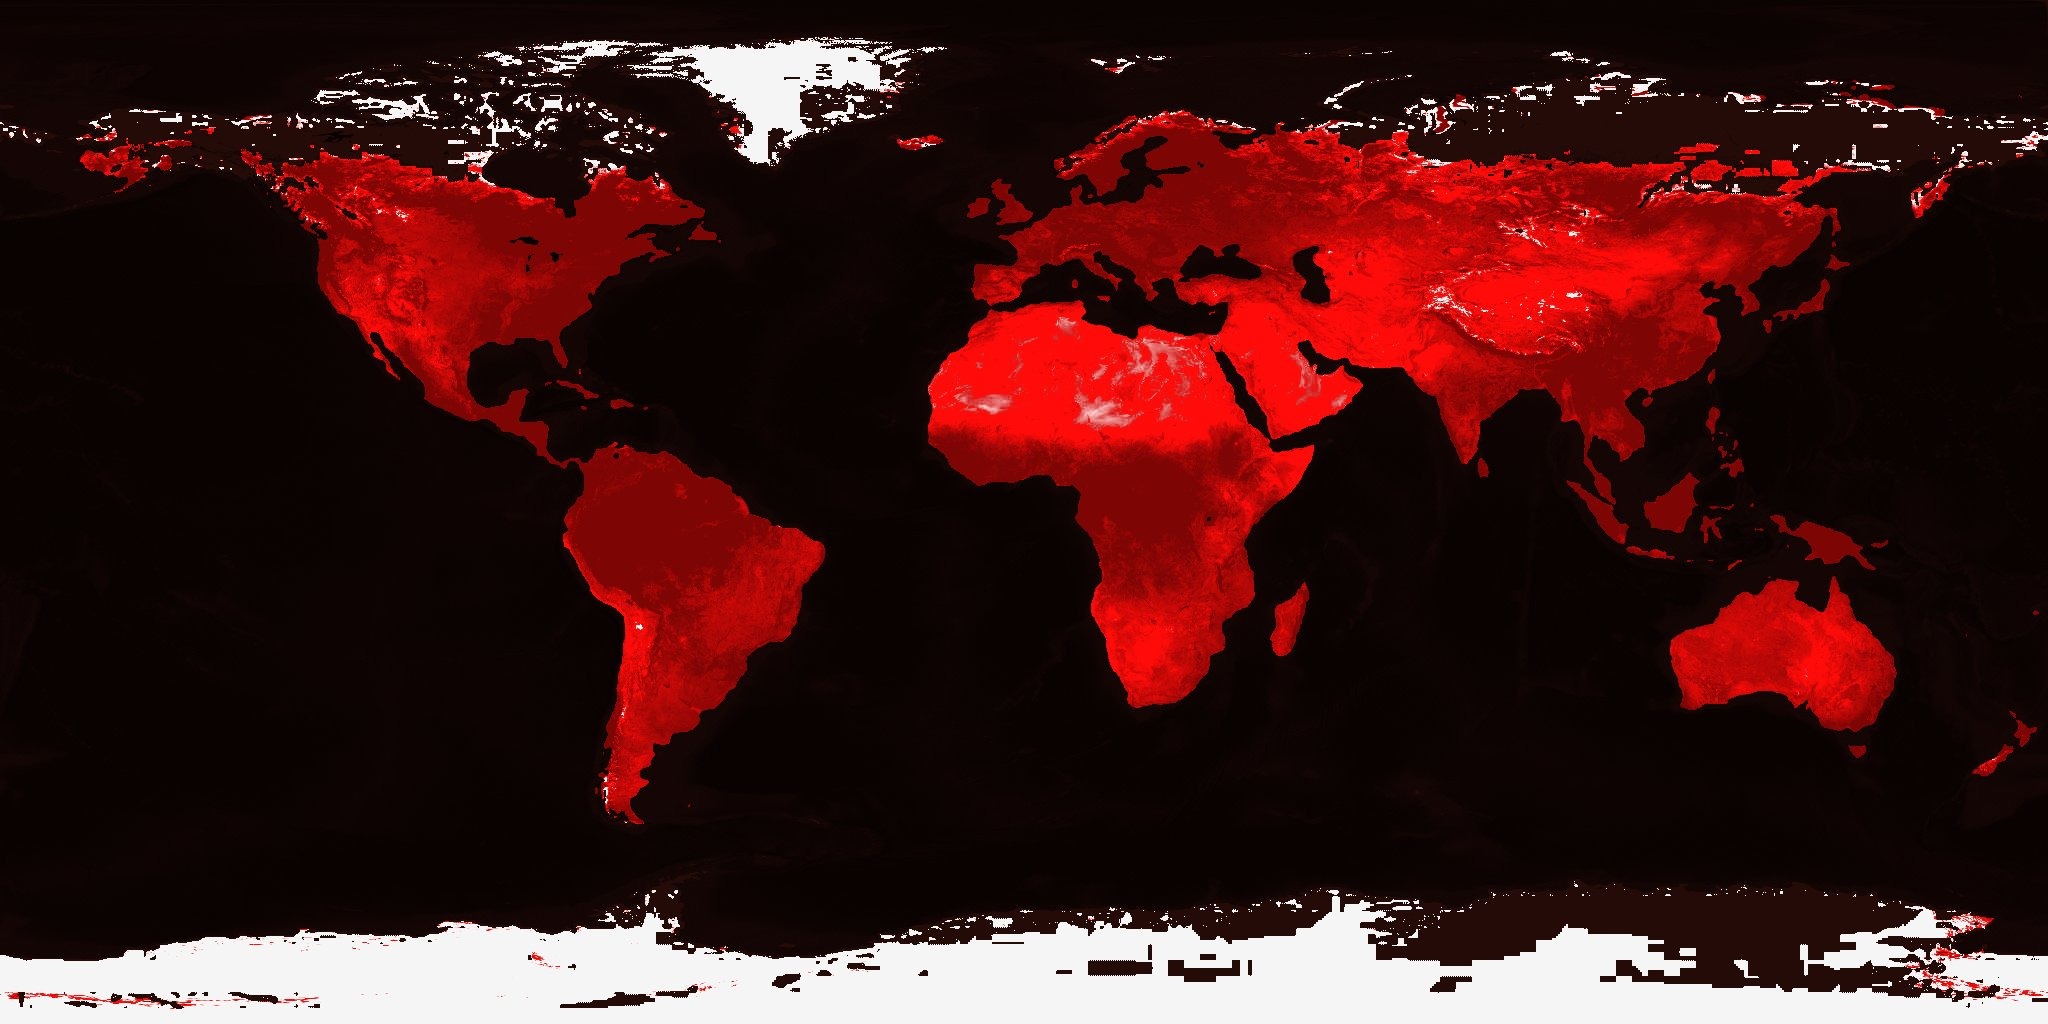
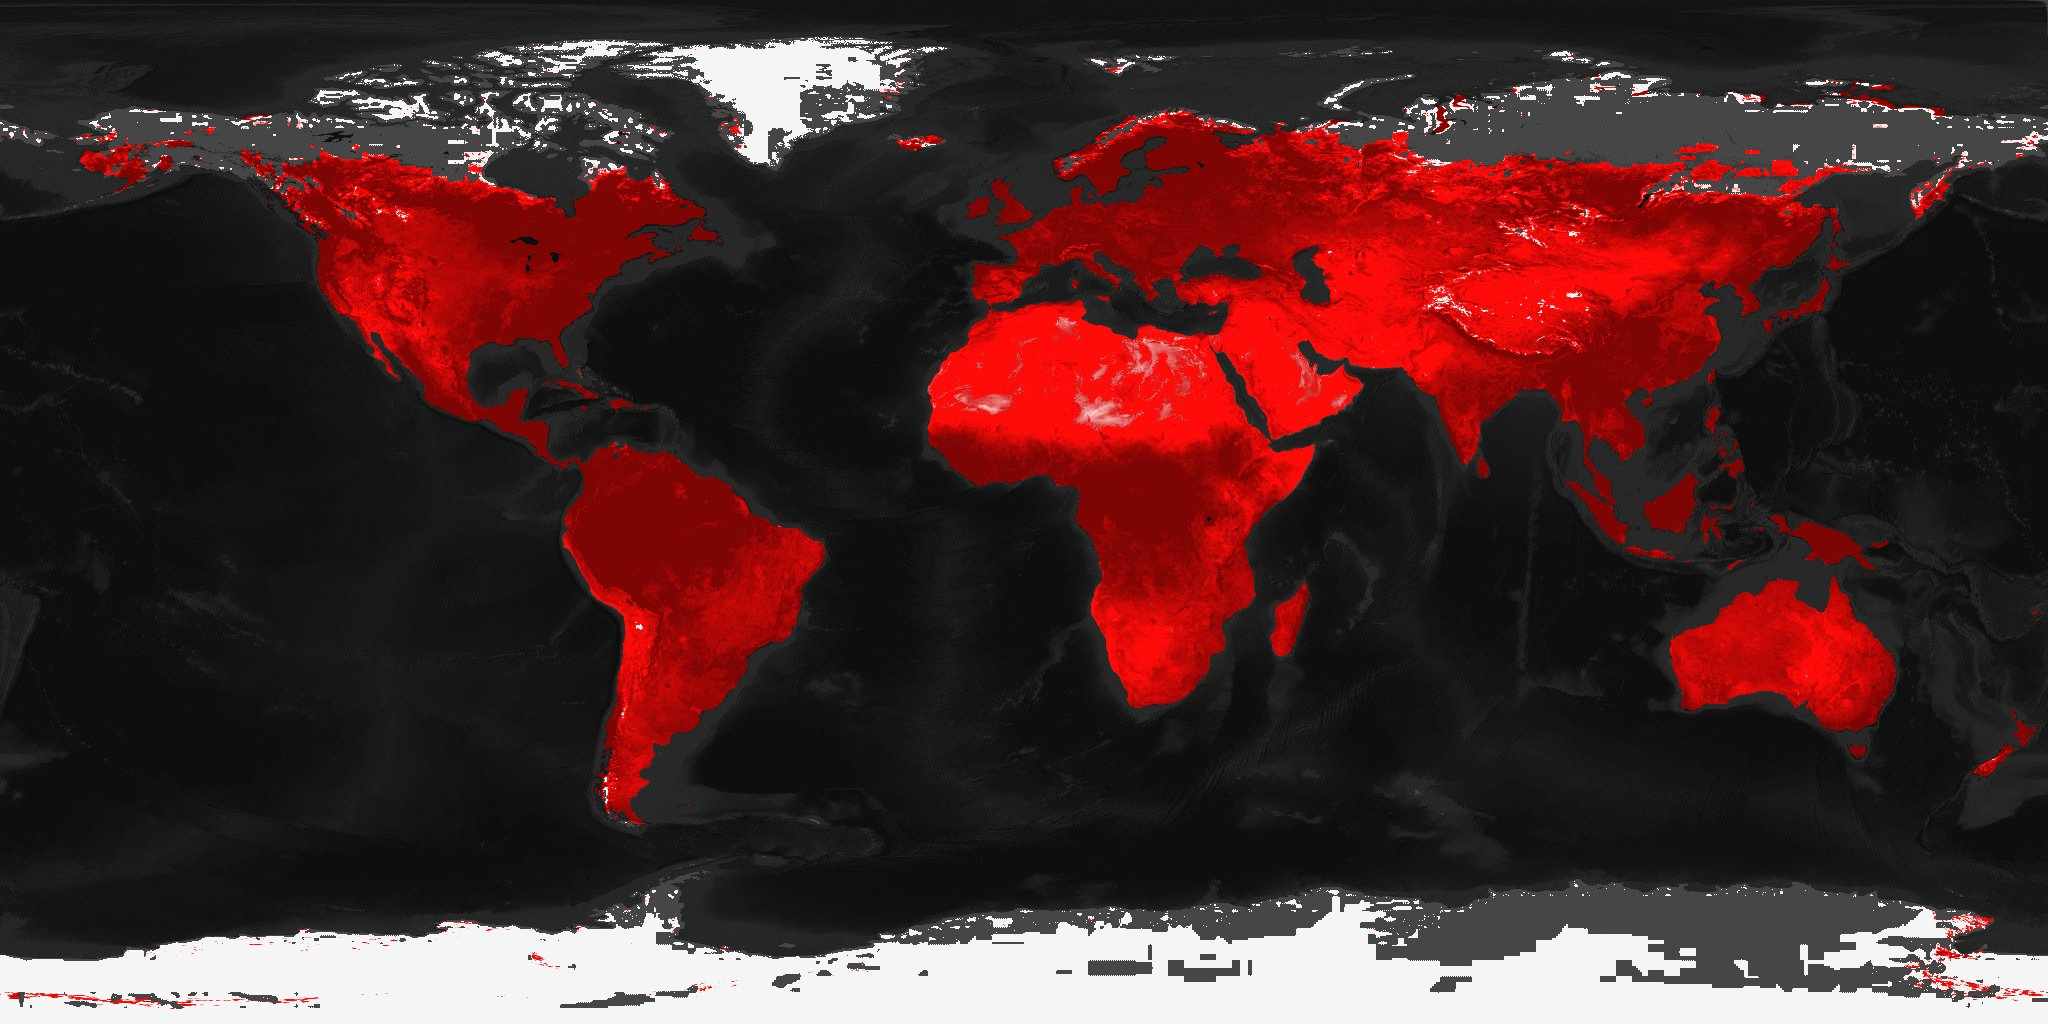
Tighten the title gap and give oceans visible grey depth.
Seas read as dark grey terrain instead of flat black ink.

diff --git a/css/styles.css b/css/styles.css
@@ -15,7 +15,7 @@
   --brand-line-height: 0.95;
   /* Fallback before JS measures the real brand box; ticker is ignored */
   --globe-size: calc(var(--brand-size) * var(--brand-line-height) * 2);
-  --title-gap: clamp(1.85rem, 4.2vh, 2.75rem);
+  --title-gap: clamp(0.85rem, 2vh, 1.35rem);
   --byline-gap: clamp(0.7rem, 1.6vh, 1.1rem);
 }
 

diff --git a/scripts/recolor_earth.py b/scripts/recolor_earth.py
@@ -21,14 +21,14 @@ def is_ocean(r: int, g: int, b: int) -> bool:
 
 
 def ocean_pixel(x, y, r, g, b):
-  # Keep oceans mostly black, but borrow original water brightness + tiny spatial
-  # noise so the field has depth instead of flat ink.
+  # Dark grey oceans with visible depth from original water brightness + grain.
+  # Neutral grey only — not red-tinted ink.
   lum = 0.299 * r + 0.587 * g + 0.114 * b
-  depth = max(0.0, min(1.0, lum / 140.0))
-  grain = ((x * 37 + y * 17) % 7) - 3  # -3..3
-  v = int(6 + 28 * depth + grain)
-  v = max(3, min(42, v))
-  return (v + 2, max(0, v // 3), max(0, v // 4))
+  depth = max(0.0, min(1.0, lum / 130.0))
+  grain = ((x * 37 + y * 17) % 11) - 5  # -5..5
+  v = int(12 + 58 * depth + grain)
+  v = max(8, min(78, v))
+  return (v, v, v)
 
 
 def recolor(src: Path, dest: Path) -> None:
